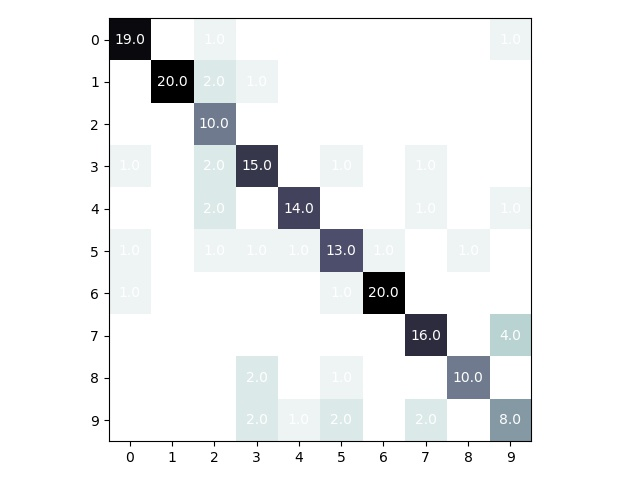
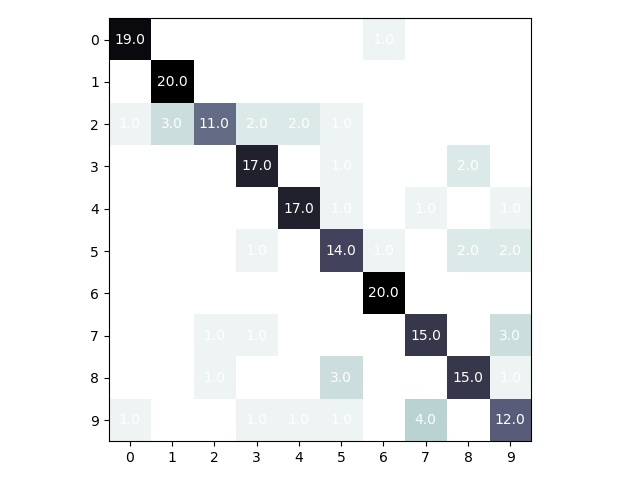
+ fixed confusion matrix errors and made classifier use one-versus-all

diff --git a/algorithm.py b/algorithm.py
@@ -34,13 +34,14 @@ def fit(classifier, LSTerm):
     return weights
 
 
-def pred(weights):
-    X = load_test()
-    pred = np.dot(X, weights)
-    normalizedPred = np.select(
-        [pred < 0, pred >= 0], [np.zeros_like(pred), np.ones_like(pred)])
-    groupedPred = np.reshape(normalizedPred, (10, 20))
-    return groupedPred.sum(axis=1)
+def pred(weights, set):
+    weights = np.transpose(weights)
+    pred = np.dot(set, weights)
+    normalizedPred = np.zeros_like(pred)
+    normalizedPred[np.arange(len(pred)), np.argpartition(
+        pred, -1, axis=1)[:, -1]] = 1
+    normalizedPred = normalizedPred.reshape(10, 20, 10).sum(axis=1)
+    return normalizedPred
 
 
 def init_least_squares(X):
@@ -54,13 +55,15 @@ def init_least_squares(X):
 def runs():
     confusion_matrix = np.empty((10, 10))
     training = load_train()
+    testing = load_test()
     LSTerm = init_least_squares(training)
+    weights = np.empty((10, 785))
 
     for classifier in range(10):
-        weights = fit(classifier, LSTerm)
-        y = pred(weights)
-        confusion_matrix[classifier] = y
-    return confusion_matrix
+        weights[classifier] = fit(classifier, LSTerm)
+
+    y = pred(weights, testing)
+    return y
 
 
 def plot_cm(data):
